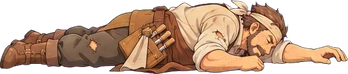
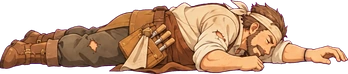
프롤로그 낙인을 검은 고리로 교체: 쓰러진 아버지 그림, 아버지·주인공(남/여) 손목 클로즈업 컷 추가
Claude-Session: https://claude.ai/code/session_01SwHSdbEEaZJxcHmirHV4co

diff --git a/games/autelia/js/prologue/scenes.js b/games/autelia/js/prologue/scenes.js
@@ -419,7 +419,9 @@ window.AU = window.AU || {};
       await P.say(T.will.slice(2, 5)); // 아버지 "...왔구나." / 주인공 / 아버지 "아니... 시간이 없다."
       await P.tween(father, { hand: 1 }, 1.3); father.frag = true; await P.wait(0.5);
       P.closeup = { a: 0 }; P.sfx("fragment"); await P.tween(P.closeup, { a: 1 }, 0.9); P.setFlag("metal_fragment_acquired"); P.give("metal_fragment"); father.frag = false; await P.wait(3.0); await P.tween(P.closeup, { a: 0 }, 0.8); P.closeup = null;
-      await P.say(T.will_brand); await P.tween(father, { hand: 0.5 }, 0.6); await P.say(T.will2);
+      await P.say(T.will_brand.slice(0, 2));
+      P.cut = { src: "assets/prologue/cut/brand_father.webp", a: 0, zoom: 0.01, t0: P.time }; await P.tween(P.cut, { a: 1 }, 0.9);   // 아버지 손목의 검은 고리 낙인(클로즈업)
+      await P.say(T.will_brand.slice(2)); await P.tween(P.cut, { a: 0 }, 0.7); P.cut = null; await P.tween(father, { hand: 0.5 }, 0.6); await P.say(T.will2);
       P.sfx("slump"); await P.tween(father, { hand: 0, drop: 1 }, 0.8); P.amb("raid_far", false); await P.wait(1.8); await P.say(T.will3);
       P.setFlag("father_final_words_seen"); P.pose(null); P.zoomTo(1, 1.2); await P.wait(0.9); P.amb("raid_far", true);
     }, { id: "cs03", skip: true, bars: true });
@@ -501,7 +503,8 @@ window.AU = window.AU || {};
       await P.wait(1.4); P.sfx("gull"); await P.wait(1.2); P.sfx("gull"); P.tween(P.v, { reveal: 1 }, 4.0); P.camPan(LAY.hill.w - 640, 4.5); await P.fade(0, 3.4);
       await P.wait(0.6); await P.caption(T.cap6, 4.2); await P.camPan(560, 1.8);
       P.v.bag = true; P.pose("shrug"); await P.wait(1.4); P.pose(null); await P.wait(0.5);
-      await P.say(T.brand_hero); await P.wait(0.4);   // 주인공도 낙인을 가졌다는 복선(손목 안쪽의 희미한 결)
+      P.cut = { src: "assets/prologue/cut/brand_hero_" + (AU.PRO_GENDER === "f" ? "f" : "m") + ".webp", a: 0, zoom: 0.01, t0: P.time }; await P.tween(P.cut, { a: 1 }, 1.0);   // 주인공 손목의 희미한 검은 고리(남·여)
+      await P.say(T.brand_hero); await P.tween(P.cut, { a: 0 }, 0.8); P.cut = null; await P.wait(0.4);   // 주인공도 낙인을 가졌다는 복선(손목 안쪽의 희미한 결)
       await P.say(T.last); await P.wait(1.4);
     }, { id: "cs05", skip: true, bars: true });
     if (live(P, g)) { P.frozen = true; await P.fade(1, 1.6); if (live(P, g)) P.finish(); }

diff --git a/games/autelia/js/prologue/data.js b/games/autelia/js/prologue/data.js
@@ -98,10 +98,10 @@ window.AU = window.AU || {};
     hero_dad: [["heroS", "아버지...!"]],
     will: [["hero", "아버지...?"], ["hero", "아버지!"], ["father", "...왔구나."], ["hero", "말하지 마세요. 지금 사람을 불러올게요."], ["father", "아니... 시간이 없다."]],
     officer: [["officer", "...낙인이군. 천 년을 숨어 산 용사의 피가 정말 여기 있었나."], ["heroS", "당신들이... 아버지를!"], ["officer", "네 아비는 끝까지 입을 열지 않았지. ...오늘은 여기까지다. 지붕이 무너진다."]],
-    will_brand: [["father", "이 조각은... 천 년 전, 우리 선조들이 어둠을 봉인할 때 쓰인 봉인석의 조각이다."], ["hero", "봉인...석? 선조라니, 아버지, 그게 무슨..."], ["father", "우리는... 다섯 용사의 피를 이은 후예다. 내 몸에 새겨진 이 낙인이 그 증거다."], ["father", "천 년을 숨어 살았는데... 그들이 끝내 우리를 찾아냈구나. 미안하다... 숨기지 못해서."]],
+    will_brand: [["father", "이 조각은... 천 년 전, 우리 선조들이 어둠을 봉인할 때 쓰인 봉인석의 조각이다."], ["hero", "봉인...석? 선조라니, 아버지, 그게 무슨..."], ["father", "우리는... 다섯 용사의 피를 이은 후예다. 내 손목에 새겨진 이 검은 고리 낙인이 그 증거다."], ["father", "천 년을 숨어 살았는데... 그들이 끝내 우리를 찾아냈구나. 미안하다... 숨기지 못해서."]],
     will2: [["father", "도망쳐라..."], ["hero", "그런 말 하지 마세요."], ["father", "이 조각을 들고..."], ["father", "빛도 어둠도 닿지 않는 중립 구역으로 가야... 안전해..."], ["hero", "아버지, 제발..."]],
     will3: [["hero", "...아버지?"]],
-    brand_hero: [["hero", "...어? 손목이..."], ["hero", "희미한 검은 결이 비친다. 아버지 손목에 있던 무늬와 같다."], ["hero", "...나한테도 있었던 거야?"]],
+    brand_hero: [["hero", "...어? 손목이..."], ["hero", "희미한 검은 고리가 비친다. 아버지 손목에 있던 고리와 같다."], ["hero", "...나한테도 있었던 거야?"]],
     last: [["hero", "...여기서부터 시작이야."]]
   };
 
